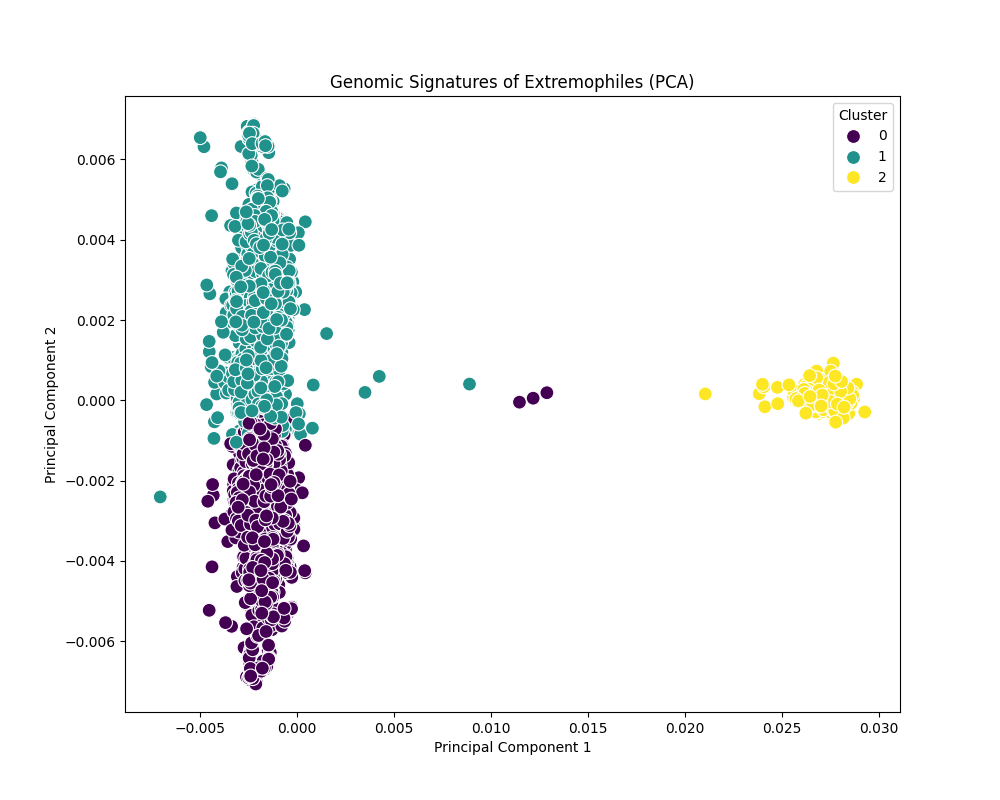
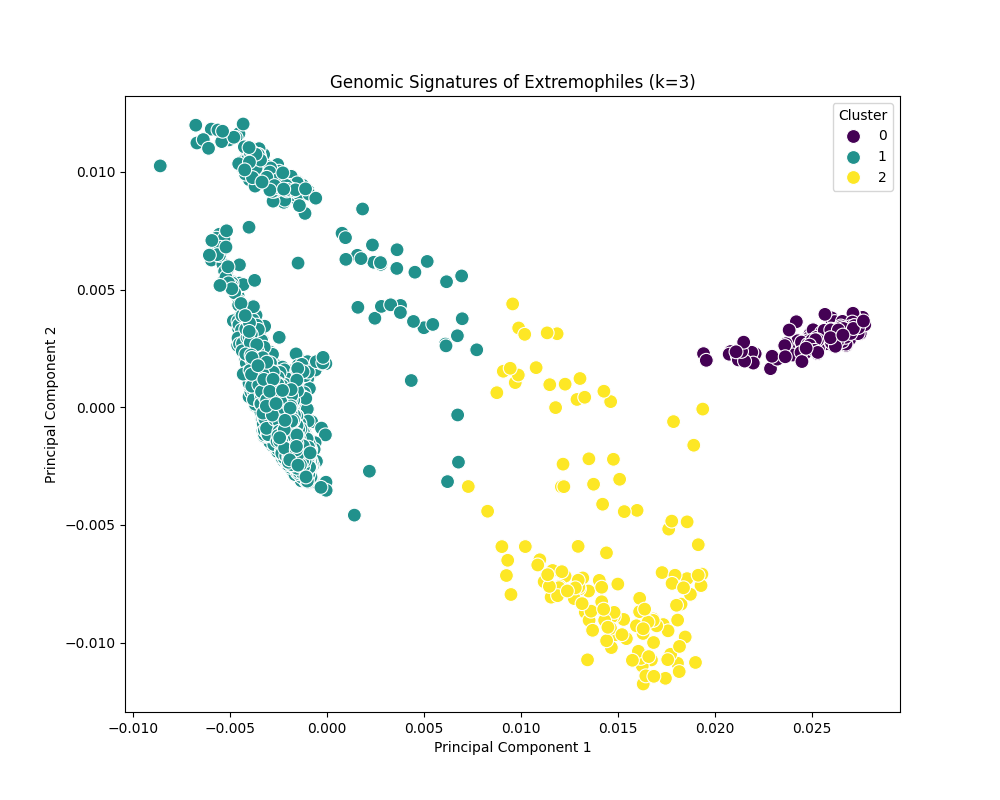
Add files via upload

diff --git a/run_ml.py b/run_ml.py
@@ -1,43 +1,62 @@
 import pandas as pd
-from sklearn.decomposition import PCA
-from sklearn.cluster import KMeans
 import matplotlib.pyplot as plt
 import seaborn as sns
+from sklearn.cluster import KMeans
+from sklearn.metrics import silhouette_score
+from sklearn.decomposition import PCA
 
 print("Loading genomic signatures...")
-# Load the dataset
 df = pd.read_csv('genomic_signatures.csv')
-
-# Separate the filenames from the numerical k-mer data
 filenames = df['filename']
 X = df.drop('filename', axis=1)
 
-print("Running K-Means Clustering and PCA...")
-# Group the data into 3 mathematical clusters
-kmeans = KMeans(n_clusters=3, random_state=42, n_init=10)
-clusters = kmeans.fit_predict(X)
+print("Calculating statistical validity (Silhouette Score & Elbow Method)...")
+inertia = []
+silhouette_scores = []
+K_range = range(2, 10)
 
-# Reduce the 4,096 dimensions down to 2 dimensions for plotting
+# Test every cluster size from 2 to 9
+for k in K_range:
+    kmeans = KMeans(n_clusters=k, random_state=42, n_init=10)
+    labels = kmeans.fit_predict(X)
+    inertia.append(kmeans.inertia_)
+    silhouette_scores.append(silhouette_score(X, labels))
+
+# 1. Plot the Statistical Proof
+fig, ax1 = plt.subplots(figsize=(10, 6))
+
+# Plot Elbow (Inertia) on the left axis
+ax1.plot(K_range, inertia, 'bo-')
+ax1.set_xlabel('Number of Clusters (k)')
+ax1.set_ylabel('Inertia (Elbow Method)', color='b')
+
+# Plot Silhouette Score on the right axis
+ax2 = ax1.twinx()
+ax2.plot(K_range, silhouette_scores, 'ro-')
+ax2.set_ylabel('Silhouette Score', color='r')
+
+plt.title('Determining Optimal k: Elbow Method & Silhouette Score')
+plt.savefig('cluster_stats.png')
+print("Saved statistical metrics to cluster_stats.png")
+
+# 2. Run the Final PCA Plot with the optimal k (we will use 3 based on our biology)
+print("Running final K-Means and PCA...")
+optimal_k = 3
+final_kmeans = KMeans(n_clusters=optimal_k, random_state=42, n_init=10)
+clusters = final_kmeans.fit_predict(X)
+
 pca = PCA(n_components=2)
 principal_components = pca.fit_transform(X)
 
-# Create a new dataframe for visualization
 plot_df = pd.DataFrame(data=principal_components, columns=['PC1', 'PC2'])
 plot_df['Cluster'] = clusters
 plot_df['Genome'] = filenames
 
-# Plot the results
 plt.figure(figsize=(10, 8))
 sns.scatterplot(x='PC1', y='PC2', hue='Cluster', palette='viridis', data=plot_df, s=100)
-plt.title('Genomic Signatures of Extremophiles (PCA)')
+plt.title(f'Genomic Signatures of Extremophiles (k={optimal_k})')
 plt.xlabel('Principal Component 1')
 plt.ylabel('Principal Component 2')
-
-# Save the plot as an image file
 plt.savefig('cluster_plot.png')
-print("Success! Open 'cluster_plot.png' to view your results.")
-# Export the final cluster assignments to a new CSV
-output_df = plot_df[['Genome', 'Cluster']]
-output_df.to_csv('cluster_results.csv', index=False)
-print("Saved cluster assignments to cluster_results.csv")
+print("Saved cluster plot to cluster_plot.png")
 

diff --git a/find_outlier.py b/find_outlier.py
@@ -1,0 +1,18 @@
+import pandas as pd
+from sklearn.decomposition import PCA
+
+# Load the dataset
+df = pd.read_csv('genomic_signatures.csv')
+filenames = df['filename']
+X = df.drop('filename', axis=1)
+
+# Run the PCA math
+pca = PCA(n_components=2)
+principal_components = pca.fit_transform(X)
+
+# Find the genome with the highest PC2 value (the vertical axis)
+outlier_index = principal_components[:, 1].argmax()
+outlier_filename = filenames.iloc[outlier_index]
+
+print(f"FOUND THE OUTLIER: {outlier_filename}")
+
